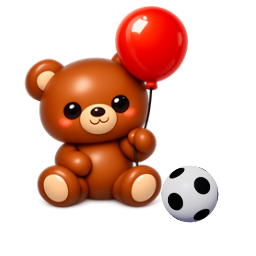
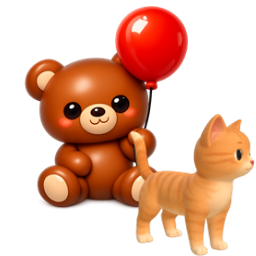
MiniMig 2: nye ikoner, navn i kontrastfarve, spark med arme og større bold; katten på forsiden

Changed region(s): [[0.5, 0.4375, 1.0, 1.0]]

diff --git a/precache-manifest.js b/precache-manifest.js
@@ -1,2 +1,2 @@
-self.MINIMIG_VERSION = 'ED8E63F4ED853B8C';
-self.MINIMIG_FILES = ["billeder/figur.png","billeder/ikon-180.png","billeder/ikon-192.png","billeder/ikon-512.png","billeder/spil-dans.jpg","billeder/spil-gemmeleg.jpg","billeder/spil-hav.jpg","billeder/spil-hop.jpg","billeder/spil-skate.jpg","billeder/spil-straffe.jpg","bygogspil/baggrund/dansesal.jpg","bygogspil/baggrund/fodboldbane.jpg","bygogspil/baggrund/gymnastiksal.jpg","bygogspil/baggrund/havbund.jpg","bygogspil/baggrund/have.jpg","bygogspil/baggrund/ridderborg.jpg","bygogspil/baggrund/rummet.jpg","bygogspil/baggrund/skov.jpg","bygogspil/baggrund/slikland.jpg","bygogspil/baggrund/slot.jpg","bygogspil/baggrund/strand.jpg","bygogspil/baggrund/vinter.jpg","bygogspil/figur.fbx","bygogspil/figur-farve.jpg","bygogspil/figur-staa.json","bygogspil/haar-kort.jpg","bygogspil/haar-kort.json","bygogspil/ikoner/baggrund.png","bygogspil/ikoner/briller.png","bygogspil/ikoner/bryn.png","bygogspil/ikoner/bukser.png","bygogspil/ikoner/hat.png","bygogspil/ikoner/hud.png","bygogspil/ikoner/haar.png","bygogspil/ikoner/kinder.png","bygogspil/ikoner/kjoler.png","bygogspil/ikoner/mund.png","bygogspil/ikoner/naese.png","bygogspil/ikoner/navn.png","bygogspil/ikoner/ny-dreng.jpg","bygogspil/ikoner/ny-pige.jpg","bygogspil/ikoner/oejne.png","bygogspil/ikoner/oerer.png","bygogspil/ikoner/sko.png","bygogspil/ikoner/spil-gemmeleg.png","bygogspil/ikoner/spil-hav.png","bygogspil/ikoner/spil-hop.png","bygogspil/ikoner/spil-hop-bag.png","bygogspil/ikoner/spil-hop-for.png","bygogspil/ikoner/spil-oe.png","bygogspil/ikoner/spil-skate.png","bygogspil/ikoner/spil-straffe.png","bygogspil/ikoner/stilling-dans.png","bygogspil/ikoner/stilling-drej.png","bygogspil/ikoner/stilling-hop.png","bygogspil/ikoner/stilling-jubel.png","bygogspil/ikoner/stilling-kolboette.png","bygogspil/ikoner/stilling-loeb.png","bygogspil/ikoner/stilling-mindans.png","bygogspil/ikoner/stilling-spark.png","bygogspil/ikoner/stilling-staa.png","bygogspil/ikoner/stilling-vink.png","bygogspil/ikoner/stroemper.png","bygogspil/ikoner/ting.png","bygogspil/ikoner/troeje.png","bygogspil/ikoner/valg-back.png","bygogspil/ikoner/valg-bg-dansesal.png","bygogspil/ikoner/valg-bg-fodboldbane.png","bygogspil/ikoner/valg-bg-gymnastiksal.png","bygogspil/ikoner/valg-bg-havbund.png","bygogspil/ikoner/valg-bg-have.png","bygogspil/ikoner/valg-bg-ridderborg.png","bygogspil/ikoner/valg-bg-rummet.png","bygogspil/ikoner/valg-bg-skov.png","bygogspil/ikoner/valg-bg-slikland.png","bygogspil/ikoner/valg-bg-slot.png","bygogspil/ikoner/valg-bg-sol.png","bygogspil/ikoner/valg-bg-strand.png","bygogspil/ikoner/valg-bg-vinter.png","bygogspil/ikoner/valg-briller-hjerte.png","bygogspil/ikoner/valg-briller-runde.png","bygogspil/ikoner/valg-briller-sol.png","bygogspil/ikoner/valg-briller-stjerne.png","bygogspil/ikoner/valg-bryn-hoeje.png","bygogspil/ikoner/valg-bryn-ingen.png","bygogspil/ikoner/valg-bryn-naturlige.png","bygogspil/ikoner/valg-bryn-sure.png","bygogspil/ikoner/valg-bryn-triste.png","bygogspil/ikoner/valg-bryn-tykke.png","bygogspil/ikoner/valg-bryn-tynde.png","bygogspil/ikoner/valg-bukser-cowboy.png","bygogspil/ikoner/valg-bukser-fodbold.png","bygogspil/ikoner/valg-bukser-lange.png","bygogspil/ikoner/valg-bukser-shorts.png","bygogspil/ikoner/valg-bukser-trusser.png","bygogspil/ikoner/valg-dans.png","bygogspil/ikoner/valg-dans-arme.png","bygogspil/ikoner/valg-dans-break.png","bygogspil/ikoner/valg-dans-fjollet.png","bygogspil/ikoner/valg-dans-flair.png","bygogspil/ikoner/valg-dans-flair2.png","bygogspil/ikoner/valg-dans-hiphop.png","bygogspil/ikoner/valg-dyr-hund.png","bygogspil/ikoner/valg-dyr-kanin.png","bygogspil/ikoner/valg-dyr-kat.png","bygogspil/ikoner/valg-fald.png","bygogspil/ikoner/valg-front.png","bygogspil/ikoner/valg-hat-kanin.png","bygogspil/ikoner/valg-hat-kasket.png","bygogspil/ikoner/valg-hat-krone.png","bygogspil/ikoner/valg-hat-sloejfe.png","bygogspil/ikoner/valg-hop.png","bygogspil/ikoner/valg-hop-hoejt.png","bygogspil/ikoner/valg-hop-lille.png","bygogspil/ikoner/valg-hop-over.png","bygogspil/ikoner/valg-haar-fletning.png","bygogspil/ikoner/valg-haar-fletninger.png","bygogspil/ikoner/valg-haar-kort.png","bygogspil/ikoner/valg-haar-kroeller.png","bygogspil/ikoner/valg-haar-strit.png","bygogspil/ikoner/valg-ingen-dress.png","bygogspil/ikoner/valg-ingen-dyr.png","bygogspil/ikoner/valg-ingen-glasses.png","bygogspil/ikoner/valg-ingen-hat.png","bygogspil/ikoner/valg-ingen-item.png","bygogspil/ikoner/valg-ingen-oerering.png","bygogspil/ikoner/valg-ingen-pants.png","bygogspil/ikoner/valg-ingen-shirt.png","bygogspil/ikoner/valg-ingen-shoe.png","bygogspil/ikoner/valg-ingen-socks.png","bygogspil/ikoner/valg-jubel.png","bygogspil/ikoner/valg-jubel-klap.png","bygogspil/ikoner/valg-jubel-yes.png","bygogspil/ikoner/valg-kjole-havfrue.png","bygogspil/ikoner/valg-kjole-prinsesse.png","bygogspil/ikoner/valg-kjole-sommer.png","bygogspil/ikoner/valg-kolboette.png","bygogspil/ikoner/valg-loeb.png","bygogspil/ikoner/valg-loeb-a.png","bygogspil/ikoner/valg-loeb-b.png","bygogspil/ikoner/valg-loebehop.png","bygogspil/ikoner/valg-mund-grin.png","bygogspil/ikoner/valg-mund-kys.png","bygogspil/ikoner/valg-mund-neutral.png","bygogspil/ikoner/valg-mund-o.png","bygogspil/ikoner/valg-mund-smil.png","bygogspil/ikoner/valg-mund-trist.png","bygogspil/ikoner/valg-mund-tunge.png","bygogspil/ikoner/valg-naese-bred.png","bygogspil/ikoner/valg-naese-dyr.png","bygogspil/ikoner/valg-naese-klovn.png","bygogspil/ikoner/valg-naese-lang.png","bygogspil/ikoner/valg-naese-lille.png","bygogspil/ikoner/valg-naese-naturlig.png","bygogspil/ikoner/valg-niveau-let.png","bygogspil/ikoner/valg-niveau-meget-let.png","bygogspil/ikoner/valg-niveau-meget-svaer.png","bygogspil/ikoner/valg-niveau-mellem.png","bygogspil/ikoner/valg-niveau-svaer.png","bygogspil/ikoner/valg-oejne-blink.png","bygogspil/ikoner/valg-oejne-glad.png","bygogspil/ikoner/valg-oejne-hjerte.png","bygogspil/ikoner/valg-oejne-naturlige.png","bygogspil/ikoner/valg-oejne-stjerne.png","bygogspil/ikoner/valg-oejne-store.png","bygogspil/ikoner/valg-oejne-vipper.png","bygogspil/ikoner/valg-oerer-alfe.png","bygogspil/ikoner/valg-oerering-hjerter.png","bygogspil/ikoner/valg-oerering-perler.png","bygogspil/ikoner/valg-oerering-ringe.png","bygogspil/ikoner/valg-oerering-stjerner.png","bygogspil/ikoner/valg-oerer-naturlig.png","bygogspil/ikoner/valg-oerer-smaa.png","bygogspil/ikoner/valg-oerer-store.png","bygogspil/ikoner/valg-oerer-udstaaende.png","bygogspil/ikoner/valg-pynt-fregner.png","bygogspil/ikoner/valg-pynt-glimmer.png","bygogspil/ikoner/valg-pynt-hjerter.png","bygogspil/ikoner/valg-pynt-ingen.png","bygogspil/ikoner/valg-pynt-plaster.png","bygogspil/ikoner/valg-pynt-plet.png","bygogspil/ikoner/valg-pynt-regnbue.png","bygogspil/ikoner/valg-pynt-roede.png","bygogspil/ikoner/valg-pynt-stjerne.png","bygogspil/ikoner/valg-side.png","bygogspil/ikoner/valg-sko-ballet.png","bygogspil/ikoner/valg-sko-fodbold.png","bygogspil/ikoner/valg-sko-gummi.png","bygogspil/ikoner/valg-sko-hoej.png","bygogspil/ikoner/valg-sko-sneakers.png","bygogspil/ikoner/valg-snubl.png","bygogspil/ikoner/valg-spark.png","bygogspil/ikoner/valg-spark-hoejre.png","bygogspil/ikoner/valg-stroemper-ankel.png","bygogspil/ikoner/valg-stroemper-fodbold.png","bygogspil/ikoner/valg-stroemper-hoeje.png","bygogspil/ikoner/valg-staa.png","bygogspil/ikoner/valg-ting-ballon.png","bygogspil/ikoner/valg-ting-bamse.png","bygogspil/ikoner/valg-ting-blomst.png","bygogspil/ikoner/valg-ting-bold.png","bygogspil/ikoner/valg-ting-fodbold.png","bygogspil/ikoner/valg-ting-hulahop.png","bygogspil/ikoner/valg-ting-is.png","bygogspil/ikoner/valg-ting-paraply.png","bygogspil/ikoner/valg-ting-tryllestav.png","bygogspil/ikoner/valg-toej-fodbold.png","bygogspil/ikoner/valg-toej-haette.png","bygogspil/ikoner/valg-toej-tshirt.png","bygogspil/ikoner/valg-vink.png","bygogspil/index.html","bygogspil/three/build/three.module.min.js","bygogspil/three/examples/jsm/controls/OrbitControls.js","bygogspil/three/examples/jsm/curves/NURBSCurve.js","bygogspil/three/examples/jsm/curves/NURBSUtils.js","bygogspil/three/examples/jsm/libs/fflate.module.js","bygogspil/three/examples/jsm/loaders/FBXLoader.js","bygogspil/three/LICENSE","index.html","manifest.webmanifest","privatliv/index.html","pwa.css","pwa.js","style.css","support/index.html","til-foraeldre/index.html"];
+self.MINIMIG_VERSION = '054615848BFB0218';
+self.MINIMIG_FILES = ["billeder/figur.png","billeder/ikon-180.png","billeder/ikon-192.png","billeder/ikon-512.png","billeder/spil-dans.jpg","billeder/spil-gemmeleg.jpg","billeder/spil-hav.jpg","billeder/spil-hop.jpg","billeder/spil-kat.jpg","billeder/spil-skate.jpg","billeder/spil-straffe.jpg","bygogspil/baggrund/dansesal.jpg","bygogspil/baggrund/fodboldbane.jpg","bygogspil/baggrund/gymnastiksal.jpg","bygogspil/baggrund/havbund.jpg","bygogspil/baggrund/have.jpg","bygogspil/baggrund/ridderborg.jpg","bygogspil/baggrund/rummet.jpg","bygogspil/baggrund/skov.jpg","bygogspil/baggrund/slikland.jpg","bygogspil/baggrund/slot.jpg","bygogspil/baggrund/strand.jpg","bygogspil/baggrund/vinter.jpg","bygogspil/figur.fbx","bygogspil/figur-farve.jpg","bygogspil/figur-staa.json","bygogspil/haar-kort.jpg","bygogspil/haar-kort.json","bygogspil/ikoner/baggrund.png","bygogspil/ikoner/briller.png","bygogspil/ikoner/bryn.png","bygogspil/ikoner/bukser.png","bygogspil/ikoner/hat.png","bygogspil/ikoner/hud.png","bygogspil/ikoner/haar.png","bygogspil/ikoner/kinder.png","bygogspil/ikoner/kjoler.png","bygogspil/ikoner/mund.png","bygogspil/ikoner/naese.png","bygogspil/ikoner/navn.png","bygogspil/ikoner/ny-dreng.jpg","bygogspil/ikoner/ny-pige.jpg","bygogspil/ikoner/oejne.png","bygogspil/ikoner/oerer.png","bygogspil/ikoner/sko.png","bygogspil/ikoner/spil-gemmeleg.png","bygogspil/ikoner/spil-hav.png","bygogspil/ikoner/spil-hop.png","bygogspil/ikoner/spil-hop-bag.png","bygogspil/ikoner/spil-hop-for.png","bygogspil/ikoner/spil-oe.png","bygogspil/ikoner/spil-skate.png","bygogspil/ikoner/spil-straffe.png","bygogspil/ikoner/stilling-dans.png","bygogspil/ikoner/stilling-drej.png","bygogspil/ikoner/stilling-hop.png","bygogspil/ikoner/stilling-jubel.png","bygogspil/ikoner/stilling-kolboette.png","bygogspil/ikoner/stilling-loeb.png","bygogspil/ikoner/stilling-mindans.png","bygogspil/ikoner/stilling-spark.png","bygogspil/ikoner/stilling-staa.png","bygogspil/ikoner/stilling-vink.png","bygogspil/ikoner/stroemper.png","bygogspil/ikoner/ting.png","bygogspil/ikoner/troeje.png","bygogspil/ikoner/valg-back.png","bygogspil/ikoner/valg-bg-dansesal.png","bygogspil/ikoner/valg-bg-fodboldbane.png","bygogspil/ikoner/valg-bg-gymnastiksal.png","bygogspil/ikoner/valg-bg-havbund.png","bygogspil/ikoner/valg-bg-have.png","bygogspil/ikoner/valg-bg-ridderborg.png","bygogspil/ikoner/valg-bg-rummet.png","bygogspil/ikoner/valg-bg-skov.png","bygogspil/ikoner/valg-bg-slikland.png","bygogspil/ikoner/valg-bg-slot.png","bygogspil/ikoner/valg-bg-sol.png","bygogspil/ikoner/valg-bg-strand.png","bygogspil/ikoner/valg-bg-vinter.png","bygogspil/ikoner/valg-briller-hjerte.png","bygogspil/ikoner/valg-briller-runde.png","bygogspil/ikoner/valg-briller-sol.png","bygogspil/ikoner/valg-briller-stjerne.png","bygogspil/ikoner/valg-bryn-hoeje.png","bygogspil/ikoner/valg-bryn-ingen.png","bygogspil/ikoner/valg-bryn-naturlige.png","bygogspil/ikoner/valg-bryn-sure.png","bygogspil/ikoner/valg-bryn-triste.png","bygogspil/ikoner/valg-bryn-tykke.png","bygogspil/ikoner/valg-bryn-tynde.png","bygogspil/ikoner/valg-bukser-cowboy.png","bygogspil/ikoner/valg-bukser-fodbold.png","bygogspil/ikoner/valg-bukser-lange.png","bygogspil/ikoner/valg-bukser-shorts.png","bygogspil/ikoner/valg-bukser-trusser.png","bygogspil/ikoner/valg-dans.png","bygogspil/ikoner/valg-dans-arme.png","bygogspil/ikoner/valg-dans-break.png","bygogspil/ikoner/valg-dans-fjollet.png","bygogspil/ikoner/valg-dans-flair.png","bygogspil/ikoner/valg-dans-flair2.png","bygogspil/ikoner/valg-dans-hiphop.png","bygogspil/ikoner/valg-dyr-hund.png","bygogspil/ikoner/valg-dyr-kanin.png","bygogspil/ikoner/valg-dyr-kat.png","bygogspil/ikoner/valg-fald.png","bygogspil/ikoner/valg-front.png","bygogspil/ikoner/valg-hat-kanin.png","bygogspil/ikoner/valg-hat-kasket.png","bygogspil/ikoner/valg-hat-krone.png","bygogspil/ikoner/valg-hat-sloejfe.png","bygogspil/ikoner/valg-hop.png","bygogspil/ikoner/valg-hop-hoejt.png","bygogspil/ikoner/valg-hop-lille.png","bygogspil/ikoner/valg-hop-over.png","bygogspil/ikoner/valg-haar-fletning.png","bygogspil/ikoner/valg-haar-fletninger.png","bygogspil/ikoner/valg-haar-kort.png","bygogspil/ikoner/valg-haar-kroeller.png","bygogspil/ikoner/valg-haar-strit.png","bygogspil/ikoner/valg-ingen-dress.png","bygogspil/ikoner/valg-ingen-dyr.png","bygogspil/ikoner/valg-ingen-glasses.png","bygogspil/ikoner/valg-ingen-hat.png","bygogspil/ikoner/valg-ingen-item.png","bygogspil/ikoner/valg-ingen-oerering.png","bygogspil/ikoner/valg-ingen-pants.png","bygogspil/ikoner/valg-ingen-shirt.png","bygogspil/ikoner/valg-ingen-shoe.png","bygogspil/ikoner/valg-ingen-socks.png","bygogspil/ikoner/valg-jubel.png","bygogspil/ikoner/valg-jubel-klap.png","bygogspil/ikoner/valg-jubel-yes.png","bygogspil/ikoner/valg-kjole-havfrue.png","bygogspil/ikoner/valg-kjole-prinsesse.png","bygogspil/ikoner/valg-kjole-sommer.png","bygogspil/ikoner/valg-kolboette.png","bygogspil/ikoner/valg-loeb.png","bygogspil/ikoner/valg-loeb-a.png","bygogspil/ikoner/valg-loeb-b.png","bygogspil/ikoner/valg-loebehop.png","bygogspil/ikoner/valg-mund-grin.png","bygogspil/ikoner/valg-mund-kys.png","bygogspil/ikoner/valg-mund-neutral.png","bygogspil/ikoner/valg-mund-o.png","bygogspil/ikoner/valg-mund-smil.png","bygogspil/ikoner/valg-mund-trist.png","bygogspil/ikoner/valg-mund-tunge.png","bygogspil/ikoner/valg-naese-bred.png","bygogspil/ikoner/valg-naese-dyr.png","bygogspil/ikoner/valg-naese-klovn.png","bygogspil/ikoner/valg-naese-lang.png","bygogspil/ikoner/valg-naese-lille.png","bygogspil/ikoner/valg-naese-naturlig.png","bygogspil/ikoner/valg-niveau-let.png","bygogspil/ikoner/valg-niveau-meget-let.png","bygogspil/ikoner/valg-niveau-meget-svaer.png","bygogspil/ikoner/valg-niveau-mellem.png","bygogspil/ikoner/valg-niveau-svaer.png","bygogspil/ikoner/valg-oejne-blink.png","bygogspil/ikoner/valg-oejne-glad.png","bygogspil/ikoner/valg-oejne-hjerte.png","bygogspil/ikoner/valg-oejne-naturlige.png","bygogspil/ikoner/valg-oejne-stjerne.png","bygogspil/ikoner/valg-oejne-store.png","bygogspil/ikoner/valg-oejne-vipper.png","bygogspil/ikoner/valg-oerer-alfe.png","bygogspil/ikoner/valg-oerering-hjerter.png","bygogspil/ikoner/valg-oerering-perler.png","bygogspil/ikoner/valg-oerering-ringe.png","bygogspil/ikoner/valg-oerering-stjerner.png","bygogspil/ikoner/valg-oerer-naturlig.png","bygogspil/ikoner/valg-oerer-smaa.png","bygogspil/ikoner/valg-oerer-store.png","bygogspil/ikoner/valg-oerer-udstaaende.png","bygogspil/ikoner/valg-pynt-fregner.png","bygogspil/ikoner/valg-pynt-glimmer.png","bygogspil/ikoner/valg-pynt-hjerter.png","bygogspil/ikoner/valg-pynt-ingen.png","bygogspil/ikoner/valg-pynt-plaster.png","bygogspil/ikoner/valg-pynt-plet.png","bygogspil/ikoner/valg-pynt-regnbue.png","bygogspil/ikoner/valg-pynt-roede.png","bygogspil/ikoner/valg-pynt-stjerne.png","bygogspil/ikoner/valg-side.png","bygogspil/ikoner/valg-sko-ballet.png","bygogspil/ikoner/valg-sko-fodbold.png","bygogspil/ikoner/valg-sko-gummi.png","bygogspil/ikoner/valg-sko-hoej.png","bygogspil/ikoner/valg-sko-sneakers.png","bygogspil/ikoner/valg-snubl.png","bygogspil/ikoner/valg-spark.png","bygogspil/ikoner/valg-spark-hoejre.png","bygogspil/ikoner/valg-stroemper-ankel.png","bygogspil/ikoner/valg-stroemper-fodbold.png","bygogspil/ikoner/valg-stroemper-hoeje.png","bygogspil/ikoner/valg-staa.png","bygogspil/ikoner/valg-ting-ballon.png","bygogspil/ikoner/valg-ting-bamse.png","bygogspil/ikoner/valg-ting-blomst.png","bygogspil/ikoner/valg-ting-bold.png","bygogspil/ikoner/valg-ting-fodbold.png","bygogspil/ikoner/valg-ting-hulahop.png","bygogspil/ikoner/valg-ting-is.png","bygogspil/ikoner/valg-ting-paraply.png","bygogspil/ikoner/valg-ting-tryllestav.png","bygogspil/ikoner/valg-toej-fodbold.png","bygogspil/ikoner/valg-toej-haette.png","bygogspil/ikoner/valg-toej-tshirt.png","bygogspil/ikoner/valg-vink.png","bygogspil/index.html","bygogspil/three/build/three.module.min.js","bygogspil/three/examples/jsm/controls/OrbitControls.js","bygogspil/three/examples/jsm/curves/NURBSCurve.js","bygogspil/three/examples/jsm/curves/NURBSUtils.js","bygogspil/three/examples/jsm/libs/fflate.module.js","bygogspil/three/examples/jsm/loaders/FBXLoader.js","bygogspil/three/LICENSE","index.html","manifest.webmanifest","privatliv/index.html","pwa.css","pwa.js","style.css","support/index.html","til-foraeldre/index.html"];

diff --git a/bygogspil/index.html b/bygogspil/index.html
@@ -106,6 +106,9 @@
   /* saving: the star, Mine figurer, the new MiniMig and the camera - first of the groups on the right, as tabs with
      their sign for a picture (they sat on the figure's picture until 03-11-2026; the user wanted the picture clear) */
   .tabgroup button .emo { height: 32px; font-size: 25px; line-height: 32px; pointer-events: none; }
+  .emo-coins { position: relative; display: inline-block; padding-right: 6px; }
+  .mini-coin { position: absolute; bottom: -1px; display: grid; place-items: center; border-radius: 50%; width: 15px; height: 15px; border: 1px solid #8E8BA0; background: radial-gradient(circle at 35% 30%, #FFFFFF, #CFCDD8 60%, #A9A6B8); color: #3A3550; font: 800 8px/1 system-ui, sans-serif; left: -6px; }
+  .mini-coin.gold { left: auto; right: -5px; bottom: 4px; width: 18px; height: 18px; font-size: 9px; border-color: #B8860B; background: radial-gradient(circle at 35% 30%, #FFF4B8, #F5C842 55%, #C9962A); color: #5A3A00; }
   .tabgroup button span { pointer-events: none; }
   #saveBtn { position: relative; }
   /* Hop over bolden: the stars top left, the cross top right, a hint at the foot of the picture at the start */
@@ -337,9 +340,11 @@
     <button id="newBtn"><span class="emo" aria-hidden="true">✨</span><span>Ny figur</span></button>
     <button id="saveBtn"><span class="emo" aria-hidden="true">📷</span><span>Billede</span><span class="lock-badge" id="lockBadge" hidden aria-hidden="true">🔓</span></button>
     <button id="soundBtn"><span class="emo" aria-hidden="true">🔊</span><span>Lyd</span></button>
-    <button id="starBtn"><span class="emo" aria-hidden="true">🏆</span><span>Stjerner</span></button>
+    <!-- (the coins are on the button too - the user, 04-11-2026) -->
+    <button id="starBtn"><span class="emo emo-coins" aria-hidden="true">🏆<i class="mini-coin">5</i><i class="mini-coin gold">20</i></span><span>Stjerner</span></button>
     <!-- (on minimig.dk only: the website's "Til voksne" - home screen, offline, privacy - from its pwa.js) -->
-    <button id="adultBtn" hidden><span class="emo" aria-hidden="true">👪</span><span>Til voksne</span></button>
+    <!-- (drawn here: an iPad shows the family emoji as a grey outline - the user, 04-11-2026) -->
+    <button id="adultBtn" hidden><span class="emo" aria-hidden="true"><svg viewBox="0 0 32 32" width="30" height="30"><circle cx="11.5" cy="8" r="5" fill="#F2C09A"/><path d="M7 7a5 5 0 0 1 9-1.5C13 7 10 7.500 7 7z" fill="#6B4226"/><path d="M4 30V20a7.500 7.500 0 0 1 15 0v10z" fill="#4F7BE8"/><circle cx="23.500" cy="15" r="4" fill="#F7CFAE"/><path d="M19.500 14.500a4 4 0 0 1 8 0c-3-.2-5.500-.8-8 0z" fill="#E0A63A"/><path d="M18 30v-5a5.500 5.500 0 0 1 11 0v5z" fill="#F0628F"/></svg></span><span>Til voksne</span></button>
   </div>
   <!-- (the movements' group, put after the other three groups by the page) -->
   <div class="tabgroup" id="moves">
@@ -515,9 +520,9 @@
     <div class="sheet-head"><h2 id="figSheetTitle">Mine figurer</h2><button class="sheet-x" data-close aria-label="Luk">✕</button></div>
     <!-- (the children first, each with their own MiniMig and stars - tap one to be that child; the user, 03-11-2026: the
          grown-ups' players belonged here with the figures, not under the stars) -->
-    <div class="kids" id="figKids"><h3>👪 Børn</h3><div class="who who-small" id="kidList"></div><h3>🖼 Gemte figurer</h3></div>
+    <div class="kids" id="figKids"><h3>Børn</h3><div class="who who-small" id="kidList"></div><h3>🖼 Gemte figurer</h3></div>
     <div class="gallery" id="gallery"></div>
-    <button class="share-off players-btn" id="playersBtn">👪 Børn og spillere – for voksne</button>
+    <button class="share-off players-btn" id="playersBtn">Børn og spillere – for voksne</button>
   </div>
 </div>
 <div class="sheet" id="picSheet" hidden>
@@ -2701,13 +2706,17 @@ function printOn(key, at, worn, draw) {
   const m = prints[key] = new THREE.SkinnedMesh(ng, new THREE.MeshStandardMaterial({ map, transparent: true, depthWrite: false, roughness: .8, metalness: 0, polygonOffset: true, polygonOffsetFactor: -2, polygonOffsetUnits: -2 }));
   m.frustumCulled = false; m.position.copy(body.position); m.quaternion.copy(body.quaternion); m.scale.copy(body.scale);
   body.parent.add(m); m.bind(body.skeleton, body.bindMatrix); }
-// (dark ink on a light garment, white on a dark - as the app's printName)
-const lightCloth = part => { const c = new THREE.Color().setStyle(part ? picked[part] || START[part] : '#FFFFFF', THREE.SRGBColorSpace); return .299 * c.r + .587 * c.g + .114 * c.b > .62; };
+// (whichever of dark ink and white stands out most from the garment, by how the eye sees contrast - the user, 04-11-2026:
+// always a contrast colour. A garment not coloured by hand, its colour as made: the average of its own picture)
+function clothColour(part, mesh) { const c = new THREE.Color(); if (!part) return c.set('#FFFFFF'); if (picked[part]) return c.setStyle(picked[part], THREE.SRGBColorSpace);
+  try { let im = null; mesh.traverse(o => { im ||= o.material?.map?.image; }); const cv = document.createElement('canvas'); cv.width = cv.height = 16; const g = cv.getContext('2d', { willReadFrequently: true }); g.drawImage(im, 0, 0, 16, 16); const d = g.getImageData(0, 0, 16, 16).data; let r = 0, gr = 0, b = 0, n = 0; for (let i = 0; i < d.length; i += 4) if (d[i + 3] > 128) { r += d[i]; gr += d[i + 1]; b += d[i + 2]; n++; } if (n) return c.setRGB(r / n / 255, gr / n / 255, b / n / 255, THREE.SRGBColorSpace); } catch (e) { /* (no picture: its start colour) */ }
+  return c.setStyle(START[part], THREE.SRGBColorSpace); }
+const lightCloth = (part, mesh) => { const c = clothColour(part, mesh); return .2126 * c.r + .7152 * c.g + .0722 * c.b > .223; };
 function chestName() { if (!hairBase) return;
   const name = nameNow.trim().slice(0, 10), badge = (BADGES.find(b => b[0] === badgeNow) || ['', ''])[1];
   const { H } = hairBase.whole, K = clothMarks(), dress = GARMENTS.dress.meshes[GARMENTS.dress.shown], shirt = GARMENTS.shirt.meshes[GARMENTS.shirt.shown];
   // (on a dress lower down: the dresses have no shoulders, and the badge sat on their top edge)
-  const light = lightCloth(dress ? 'dress' : shirt ? 'shirt' : '');
+  const light = lightCloth(dress ? 'dress' : shirt ? 'shirt' : '', dress || shirt);
   // (the picture: the badge over the name - the name alone in the middle, smaller as it gets longer, as in the app)
   printOn('name', { cx: K.mid, cy: K.neckY - (dress ? .16 : .115) * H, hw: .08 * H, hh: .055 * H }, dress || shirt, (name || badge) && ((g, w, h) => { const mx = w / 2, my = h / 2;
   g.textAlign = 'center'; g.textBaseline = 'middle';
@@ -2740,7 +2749,7 @@ function footballPrints() { if (!hairBase) return; const { H } = hairBase.whole,
   // (the figure's right: on the left as one looks at it)
   printOn('crest', { cx: K.mid - .045 * H, cy: K.neckY - .07 * H, hw: .018 * H, hh: .018 * H }, shirt, shirt && crest);
   printOn('crest-pants', { cx: K.mid - .055 * H, cy: hipY - .1 * H, hw: .014 * H, hh: .014 * H }, pants, pants && crest);
-  const light = lightCloth('shirt');
+  const light = lightCloth('shirt', shirt);
   printOn('number', { cx: K.mid, cy: K.neckY - .13 * H, hw: .075 * H, hh: .075 * H, back: true }, shirt, shirt && ((g, w, h) => {
     g.textAlign = 'center'; g.textBaseline = 'middle'; g.font = `800 ${h * .78}px ui-rounded, "Arial Rounded MT Bold", system-ui, sans-serif`;
     g.shadowColor = light ? 'rgba(255,255,255,.35)' : 'rgba(0,0,0,.25)'; g.shadowOffsetY = 5; g.shadowBlur = 8;
@@ -3347,7 +3356,8 @@ function kickSetup(id) { const clip = glbActions[id].getClip();
   for (let k = 0; k <= n; k++) { sample(id, kick.pre + len * k / n); toes.forEach((b, i) => track[i].push(holder.worldToLocal(b.getWorldPosition(new THREE.Vector3())))); }
   const foot = track.reduce((a, b) => Math.max(...b.map(p => p.z)) > Math.max(...a.map(p => p.z)) ? b : a);
   let best = 1, speed = -1; for (let k = 1; k <= n; k++) { const v = foot[k].z - foot[k - 1].z; if (v > speed) { speed = v; best = k; } }
-  if (!kick.ball) { kick.ball = makeItem('fodbold'); kick.ball.group.scale.setScalar(.75); scene.remove(kick.ball.group); holder.add(kick.ball.group); }
+  // (a ball as high as half the sock, from the floor to the knee - the user, 04-11-2026: it was far too small)
+  if (!kick.ball) { if (bone('LeftLeg') && glbActions.staa) { sample('staa', 0); kick.r = holder.worldToLocal(bone('LeftLeg').getWorldPosition(new THREE.Vector3())).y * .3; } kick.ball = makeItem('fodbold'); kick.ball.group.scale.setScalar(kick.r / .158); scene.remove(kick.ball.group); holder.add(kick.ball.group); }
   kicks[id] = { contact: kick.pre + len * best / n, rest: new THREE.Vector3(foot[best].x, kick.r, foot[best].z + kick.r * .6), side: Math.sign(foot[best].x) || 1 };
   // (which way the head looks, in its own turn: measured standing straight, looking ahead - the kick's own start looks down)
   if (!kick.headFwd && bone('Head') && glbActions.staa) { sample('staa', 0); kick.headFwd = new THREE.Vector3(0, 0, 1).applyQuaternion(bone('Head').getWorldQuaternion(new THREE.Quaternion()).invert()); } }
@@ -3372,7 +3382,15 @@ function kickBall(dt) { if (!kick.ball) return; const k = kicks[anim], a = glbAc
     g.position.set(rest.x - 1.2 * s * side, Math.max(r, r + 3.2 * s - 4.4 * s * s), rest.z + 4.5 * s); g.rotation.x += dt * 14; }
   if (glb) g.position.applyAxisAngle(yAxis, glb.rotation.y);
   // (eyes on the ball from when it rolls in until it is away, easing in and out)
-  lookAtBall(g, .85 * Math.min(1, t / .4) * Math.max(0, Math.min(1, 1 - (t - contact - 1) / .4))); }
+  lookAtBall(g, .85 * Math.min(1, t / .4) * Math.max(0, Math.min(1, 1 - (t - contact - 1) / .4)));
+  kickArms(t, contact, side); }
+// (the arms go with the kick - the user, 04-11-2026: they just hung down. A little out from the body from the start;
+// in the kick the arm on the kicking side swings back and the other forward, as a body keeps its balance)
+const kaS = new THREE.Vector3(), kaO = new THREE.Vector3(), kaD = new THREE.Vector3(), kaQ = new THREE.Quaternion();
+function kickArms(t, contact, side) { const w = Math.min(1, t / .4) * Math.max(0, Math.min(1, 1 - (t - contact - .8) / .4)); if (w <= 0) return; holder.getWorldQuaternion(kaQ); if (glb) kaQ.multiply(glb.quaternion);
+  const s = Math.exp(-(((t - contact) / .38) ** 2));
+  kaS.set(side * (.5 + .25 * s), -.86 + .5 * s, .12 - .72 * s); kaO.set(-side * (.5 - .1 * s), -.86 + .55 * s, .12 + .75 * s);
+  [[side > 0 ? 'Left' : 'Right', kaS], [side > 0 ? 'Right' : 'Left', kaO]].forEach(([n, v]) => { kaD.copy(v).normalize().applyQuaternion(kaQ); aimBone(n + 'Arm', n + 'ForeArm', kaD, .9 * w); kaD.copy(v).add(ssBack.set(0, .35, .35)).normalize().applyQuaternion(kaQ); aimBone(n + 'ForeArm', n + 'Hand', kaD, .9 * w); }); }
 
 // ---- Hop over bolden: the first little game (03-11-2026) ----
 // The figure runs on the spot, seen from the side; footballs roll in from the right. A tap on the figure's picture (or
@@ -4075,7 +4093,7 @@ function pkBuild() { if (pk.world) return; const w = pk.world = new THREE.Group(
   pk.rig = new THREE.Group(); }
 function pkStart() { pkBuild(); scene.add(pk.world); holder.add(pk.rig); pk.rig.add(glb); pk.rig.position.set(0, 0, 0); game.rotY = Math.PI;
   floor.visible = false; disc.visible = false; for (const el of [bgNear, bgFar, bgNear2]) el.hidden = true; stage.classList.add('pitch'); controls.maxDistance = 40;
-  if (!pk.ball) { pk.ball = makeItem('fodbold'); pk.ball.group.scale.setScalar(.75); scene.remove(pk.ball.group); }
+  if (!pk.ball) { pk.ball = makeItem('fodbold'); pk.ball.group.scale.setScalar(kick.r / .158); scene.remove(pk.ball.group); }
   pk.world.add(pk.ball.group); pk.ball.group.visible = true;
   for (const id of ['spark', 'spark-hoejre', GAME.cheer]) loadMove(id); loadMove('staa').then(() => { if (game.on && game.mode === 'pk') runAnim('staa'); });
   pkReady(); }
@@ -4280,7 +4298,9 @@ function sfx(kind, later = 0) { const ctx = game.audio; if (!sound.sfx || !ctx |
 musicBtn.onclick = () => { musicOn = !musicOn; try { localStorage.setItem('minimig3d.musik', musicOn ? 'til' : 'fra'); } catch (e) {} if (musicOn) soundOut()?.resume(); };
 // (once the figure is in, the hint goes into the i in the corner - on a touch screen and on a computer alike)
 const infoBtn = document.getElementById('infoBtn'), infoPop = document.getElementById('infoPop'); let infoTimer = 0;
-infoBtn.onclick = () => { infoPop.hidden = !infoPop.hidden; infoBtn.setAttribute('aria-expanded', String(!infoPop.hidden)); clearTimeout(infoTimer); if (!infoPop.hidden) infoTimer = setTimeout(() => { infoPop.hidden = true; infoBtn.setAttribute('aria-expanded', 'false'); }, 9000); };
+// (one more line while the child isn't saved with a name yet - the user, 04-11-2026: how to keep one's own player)
+const infoSave = document.createElement('span'); infoSave.innerHTML = '<br>🙂 Gem dig selv som spiller: Byg din figur, og tryk på billedet nederst i højre hjørne. Vælg »Børn og spillere – for voksne«, og få en voksen til at løse regnestykket. Skriv navnet, og tryk 📷';
+infoBtn.onclick = () => { const p = playerNow(); infoSave.remove(); if (!p.name || !p.fig) infoPop.append(infoSave); infoPop.hidden = !infoPop.hidden; infoBtn.setAttribute('aria-expanded', String(!infoPop.hidden)); clearTimeout(infoTimer); if (!infoPop.hidden) infoTimer = setTimeout(() => { infoPop.hidden = true; infoBtn.setAttribute('aria-expanded', 'false'); }, 16000); };
 loadFbx().then(ok => { const tag = document.getElementById('tag'); if (!ok) { tag.textContent = 'Figuren kunne ikke hentes'; return; }
   // (on a computer too, since 03-11-2026 - the user wanted it the same everywhere - in words for the mouse)
   if (matchMedia('(hover: hover) and (pointer: fine)').matches) infoPop.innerHTML = '🖱 Træk for at dreje figuren<br>🔍 Rul med musen for at zoome<br>👕 Klik på navnet på trøjen, så siger figuren det – med din egen indtalte stemme, hvis du har indtalt en';

diff --git a/til-foraeldre/index.html b/til-foraeldre/index.html
@@ -25,8 +25,8 @@
 <h2>Barnets egen stemme</h2><p>Barnet kan indtale »Hej, jeg hedder …« under fanen Navn. Første gang spørger enheden om lov til mikrofonen – det skal en voksen sige ja til. Optagelsen gemmes kun på enheden og sendes aldrig nogen steder hen.</p>
 <h2>Lyd</h2><p>Under <strong>Lyd</strong> (bag et regnestykke) vælger I, hvilke lyde MiniMig må lave: musik til spil og danse, lydeffekter og stemmen, der siger navnet.</p>
 <h2>En god skærm til legen</h2><p>MiniMig er bedst på en iPad, en tablet eller en computer, hvor der er god plads til både figuren og valgene. Figuren er i 3D, så meget gamle enheder kan være lidt langsomme. På iPhone kan I prøve at vende telefonen vandret, hvis skærmen føles trang.</p>
-<h2>På hjemmeskærmen</h2><p>Åbn spillet og tryk <strong>👪 Til voksne</strong> for installationsvejledning til iPhone, iPad og Android. Installationen skal bekræftes af jer.</p>
-<h2>Uden internet</h2><p>Første gang I åbner spillet med internet, gemmes det vigtigste på enheden: figuren, standardhåret, ikonerne og baggrundene. Under <strong>👪 Til voksne</strong> kan I se, når spillet er klar. Tøj, hår, hatte og bevægelser gemmes første gang barnet bruger dem – så det, barnet har leget med, virker også uden internet.</p>
+<h2>På hjemmeskærmen</h2><p>Åbn spillet og tryk <strong>Til voksne</strong> for installationsvejledning til iPhone, iPad og Android. Installationen skal bekræftes af jer.</p>
+<h2>Uden internet</h2><p>Første gang I åbner spillet med internet, gemmes det vigtigste på enheden: figuren, standardhåret, ikonerne og baggrundene. Under <strong>Til voksne</strong> kan I se, når spillet er klar. Tøj, hår, hatte og bevægelser gemmes første gang barnet bruger dem – så det, barnet har leget med, virker også uden internet.</p>
 <h2>Privatliv</h2><p>Figuren, navnene, stjernerne og stemmeoptagelsen sendes ikke til os. Et billede af figuren kan kun komme ud af spillet gennem enhedens egen dele-menu, og først når en voksen har løst et regnestykke. Læs om <a href="../privatliv/">lokal lagring og hosting</a>.</p>
 <h2>Vi vil meget gerne høre fra jer</h2><p>MiniMig er nyt, og jeres feedback hjælper os med at gøre det bedre. Fortæl os, hvad jeres børn kan lide, hvad der driller, og hvad I savner – nyt tøj, hår, ting eller noget helt andet. Skriv til <a href="mailto:supportogfeedback@minimig.dk">supportogfeedback@minimig.dk</a>.</p>
 <p><a class="badge" href="../bygogspil/">Byg og spil MiniMig</a></p>

diff --git a/support/index.html b/support/index.html
@@ -20,9 +20,9 @@
 <h1>Hjælp til MiniMig</h1>
 <p><a class="badge" href="../bygogspil/">Åbn spillet</a></p>
 <h2>Hvordan installerer jeg MiniMig?</h2>
-<p>Åbn spillet og tryk på <strong>👪 Til voksne</strong> øverst blandt knapperne. Her finder du vejledning til iPhone, iPad og Android samt en installationsknap, når browseren understøtter den. Har I MiniMig på hjemmeskærmen fra før, virker ikonet stadig – det åbner nu den nye MiniMig.</p>
+<p>Åbn spillet og tryk på <strong>Til voksne</strong> øverst blandt knapperne. Her finder du vejledning til iPhone, iPad og Android samt en installationsknap, når browseren understøtter den. Har I MiniMig på hjemmeskærmen fra før, virker ikonet stadig – det åbner nu den nye MiniMig.</p>
 <h2>Kan jeg spille uden internet?</h2>
-<p>Ja. Første gang spillet åbnes med internet, gemmes det vigtigste: figuren, standardhåret, ikonerne og baggrundene. Under <strong>👪 Til voksne</strong> står der, når spillet kan bruges uden internet. Tøj, hår, hatte og bevægelser gemmes første gang barnet bruger dem, så det, barnet har leget med, også virker uden internet. Hvis browseren rydder filerne ved pladsmangel, hentes de igen næste gang, der er internet.</p>
+<p>Ja. Første gang spillet åbnes med internet, gemmes det vigtigste: figuren, standardhåret, ikonerne og baggrundene. Under <strong>Til voksne</strong> står der, når spillet kan bruges uden internet. Tøj, hår, hatte og bevægelser gemmes første gang barnet bruger dem, så det, barnet har leget med, også virker uden internet. Hvis browseren rydder filerne ved pladsmangel, hentes de igen næste gang, der er internet.</p>
 <h2>Hvordan gemmes figuren?</h2>
 <p>Den seneste figur huskes automatisk i denne browser. Med <strong>⭐ Gem</strong> kan barnet gemme figurer og profilbilleder i <strong>Mine figurer</strong> og hente dem frem igen. Øverst i Mine figurer ligger børnene med hver deres egen MiniMig – trykker barnet på sit billede, får figuren barnets MiniMig på, og stjernerne følger med. Med kameraet kan et billede af figuren gemmes eller deles gennem enhedens egen dele-menu – først når en voksen har løst et regnestykke. Hvis du rydder hjemmesidens data, slettes figurer, stjerner og offlinefiler. En anden browser eller en installeret webapp kan have separat lagring.</p>
 <h2>Hvordan opretter jeg søskende?</h2>

diff --git a/index.html b/index.html
@@ -49,6 +49,14 @@
     <figure><img src="billeder/spil-gemmeleg.jpg" width="360" height="540" alt="En pige hopper frem bag en busk på en ø med palmer" loading="lazy"><figcaption>Gemmeleg</figcaption></figure>
   </section>
 
+  <section class="pet">
+    <img src="billeder/spil-kat.jpg" width="800" height="600" alt="En dreng i rød fodboldtrøje med en lille orange kat ved siden af sig" loading="lazy">
+    <div>
+      <h2>Et kæledyr, der følger med</h2>
+      <p>Spar mønter sammen i Stjernebutikken, og køb en kat, en hund eller en kanin. Kæledyret følger din MiniMig rundt, går med i de fleste spil og hopper med, når der danses. Vores nye kat kigger sig omkring og svinger med halen, mens den venter på dig.</p>
+    </div>
+  </section>
+
   <section class="cards">
     <div class="card"><div class="ico">🎨</div><h3>Masser af valg</h3><p>Hud, hår, øjne, mund, trøjer, bukser, kjoler, sko, briller, hatte, ting at holde og baggrunde fra slot til rummet.</p></div>
     <div class="card"><div class="ico">💃</div><h3>Bevæg dig og dans</h3><p>Vink, hop, løb, jubel, kolbøtter og danse med musik. Sæt bevægelser sammen til din helt egen dans, og gem den.</p></div>

diff --git a/style.css b/style.css
@@ -40,6 +40,10 @@ nav a:hover, nav a[aria-current] { color: var(--ink); }
 .shots figure { margin: 0; text-align: center; }
 .shots img { width: 100%; height: auto; border-radius: 18px; box-shadow: 0 4px 14px var(--shadow); display: block; }
 .shots figcaption { margin-top: 6px; font-weight: 800; font-size: .95rem; }
+.pet { display: grid; grid-template-columns: 1fr 1fr; gap: 24px; align-items: center; margin: 30px 0 0; }
+.pet img { width: 100%; height: auto; border-radius: 18px; box-shadow: 0 4px 14px var(--shadow); display: block; }
+.pet h2 { margin: 0 0 8px; }
+.pet p { margin: 0; color: var(--muted); }
 .card { background: var(--card); border-radius: 20px; padding: 18px; box-shadow: 0 4px 14px var(--shadow); }
 .card .ico { font-size: 1.8rem; }
 .card h3 { margin: 6px 0 4px; font-size: 1.05rem; }
@@ -60,6 +64,7 @@ footer a { color: var(--muted); }
   .hero .pic { order: -1; } .hero .pic img { max-width: 320px; }
   .cards { grid-template-columns: 1fr; }
   .shots { grid-template-columns: repeat(2, 1fr); }
+  .pet { grid-template-columns: 1fr; }
   header.top { flex-direction: column; gap: 8px; padding-bottom: 6px; }
   nav a { margin: 0 9px; }
 }
